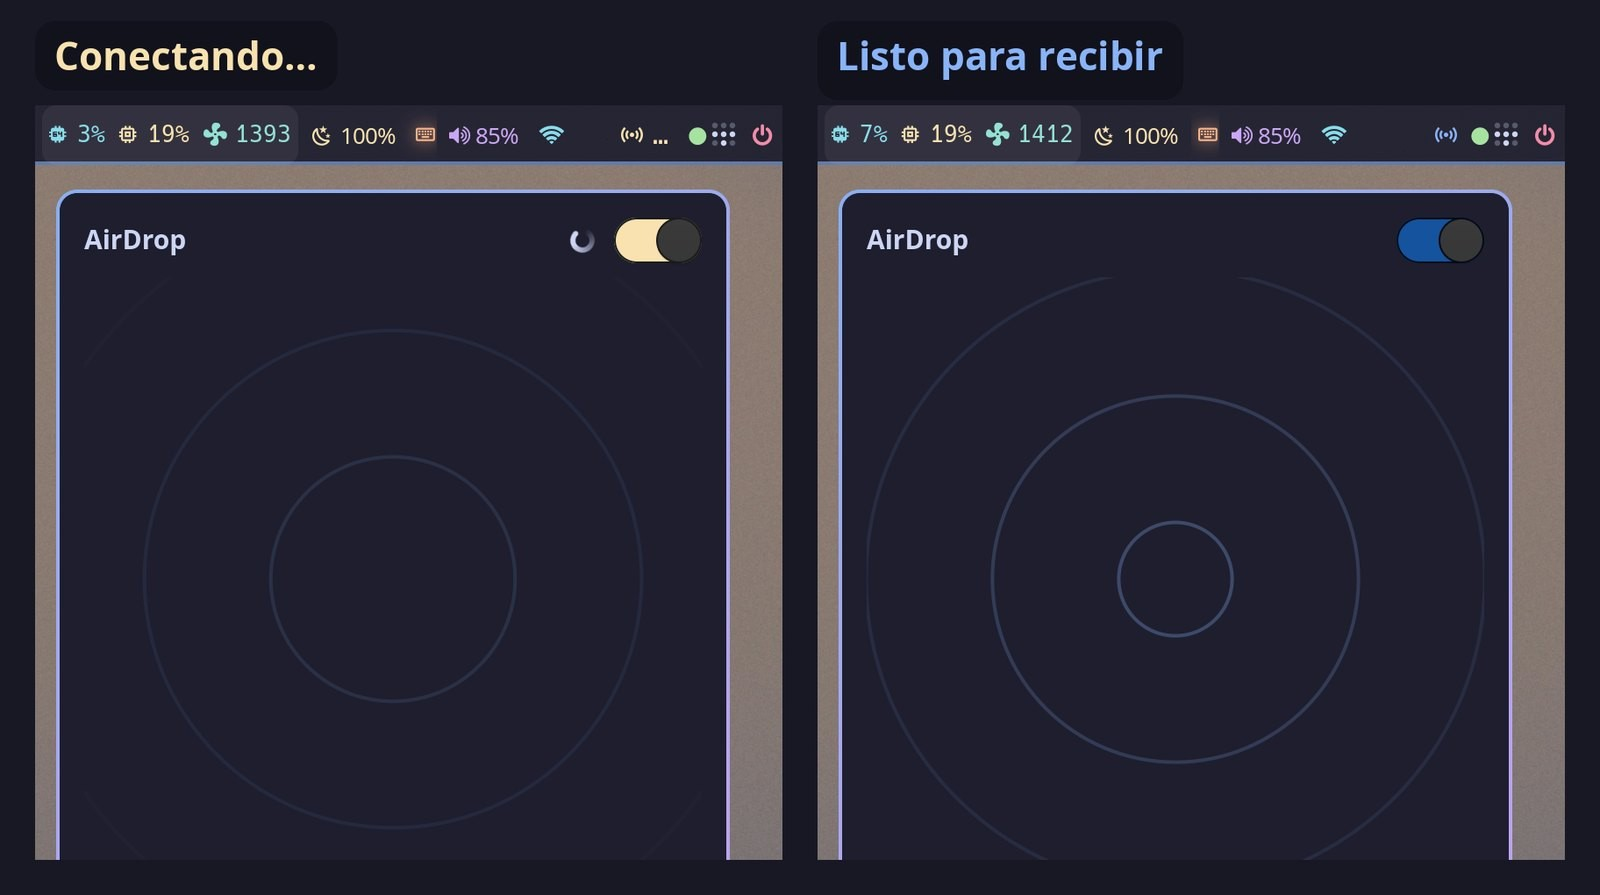
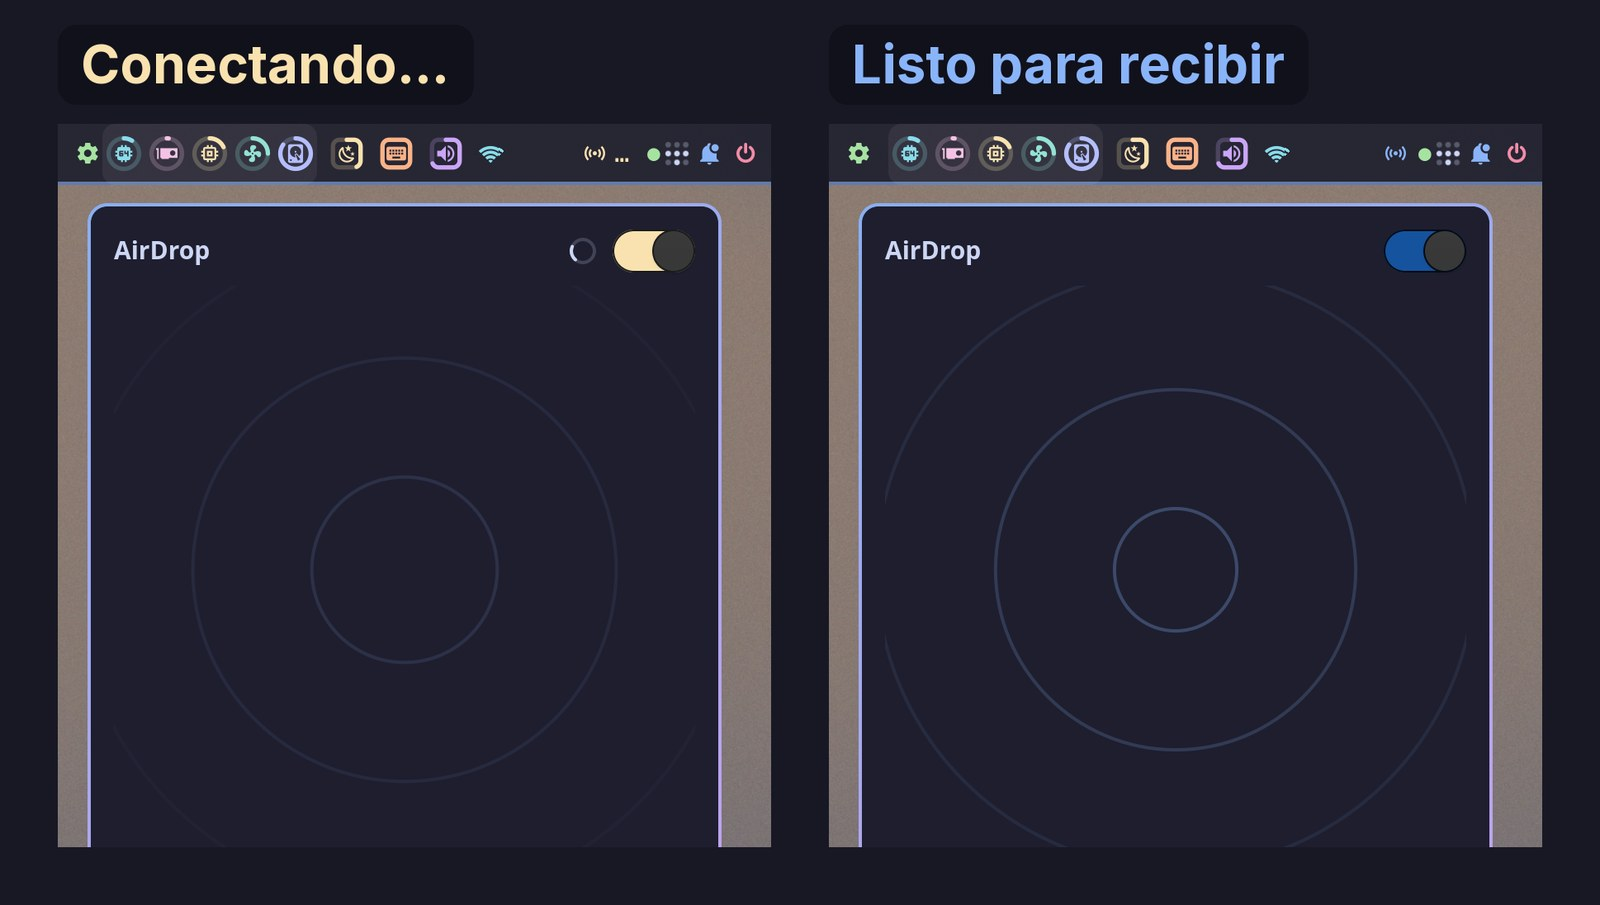
Images: the current bar, the real fastfetch and the notification centre
The desktop, bar and AirDrop pictures showed the bar of 24-29 Oct (plain
numbers instead of the rings, no bell). Retaken on the laptop: the
desktop runs fastfetch from a real zsh with Powerlevel10k (WayBian 0.11,
now read from the running kernel instead of a fixed string), the panels
in the bar picture and the new notification-centre picture are drawn
with demo files and test notifications, and the network name is
covered. Also: GRUB's default and the linux-aurora note no longer say
0.4.

Claude-Session: https://claude.ai/code/session_013Fj1pFpNwdgsUP2jErzBr1

diff --git a/forks/README.md b/forks/README.md
@@ -10,6 +10,6 @@ Each folder here is a git submodule: a link to one of our forks, pinned to the e
 | `omdrop-awdl` | [samucarre/omdrop-awdl](https://github.com/samucarre/omdrop-awdl/tree/discoverable-rapido) `discoverable-rapido` | AirDrop: a faster visible/invisible toggle for the bar's AirDrop button. | [1](../patches/omdrop-awdl) |
 | `libva-v4l2_request` | [samucarre/libva-v4l2_request](https://github.com/samucarre/libva-v4l2_request/tree/avd-fixes) `avd-fixes` | The VA‑API driver for the AVD (hardware video decoding); a mirror, no changes of ours. | — |
 | `xdg-desktop-portal-gtk4` | [samucarre/xdg-desktop-portal-gtk4](https://github.com/samucarre/xdg-desktop-portal-gtk4/tree/waybian) `waybian` | The GTK4 file dialogs: Quick Look with the space bar, like the Finder. | [5](../patches/xdg-desktop-portal-gtk4) |
-| `linux-aurora` | [samucarre/linux-aurora](https://github.com/samucarre/linux-aurora/tree/integration/aurora) `integration/aurora` | Aurora's kernel tree at the commit the running kernel (WayBian 0.4) is based on. Our four upstream patches are its branches, one pull request each to `omacom/linux-aurora` (open as of 29 Oct): [#258](https://github.com/omacom/linux-aurora/pull/258), [#259](https://github.com/omacom/linux-aurora/pull/259), [#260](https://github.com/omacom/linux-aurora/pull/260), [#261](https://github.com/omacom/linux-aurora/pull/261). Not downloaded by default (see below). | [4](../patches/linux-aurora) |
+| `linux-aurora` | [samucarre/linux-aurora](https://github.com/samucarre/linux-aurora/tree/integration/aurora) `integration/aurora` | Aurora's kernel tree at the commit WayBian 0.4 was based on (`30a6518`); the running kernel, 0.11, is built on Aurora's `integration/aurora` of 30 Oct. Our upstream patches are its branches, one pull request each to `omacom/linux-aurora`; their list and state (two of them, #259 and #287, already merged) are in [docs/forks.md](../docs/forks.md#kernel-patches-proposed-upstream). Not downloaded by default (see below). | [4](../patches/linux-aurora) |
 
 To get the presentation and every fork at once: `git clone --recurse-submodules https://github.com/samucarre/waybian`. `linux-aurora` is marked `update = none` in `.gitmodules`, so that skips a kernel tree of several gigabytes; fetch it on purpose with `git submodule update --init --checkout forks/linux-aurora`. The kernel that actually runs is built from a private fork (local patches, configurations and install scripts) that is not included.

diff --git a/docs/boot-chain.md b/docs/boot-chain.md
@@ -49,7 +49,7 @@ Debian ships `m1n1`, `u-boot-asahi` and `asahi-platform`, built for M1/M2. Their
 
 ## GRUB layout
 
-The entries live in `/etc/grub.d/40_custom`, each with its own `--id`, so `update-grub` (which runs whenever the grub packages are upgraded) rebuilds this menu instead of dropping it. `10_linux` and the other generators that add entries by themselves are disabled, and the default is chosen by id (`GRUB_DEFAULT="waybian-0.4"` in `/etc/default/grub.d/`), because indexes change when an entry is added.
+The entries live in `/etc/grub.d/40_custom`, each with its own `--id`, so `update-grub` (which runs whenever the grub packages are upgraded) rebuilds this menu instead of dropping it. `10_linux` and the other generators that add entries by themselves are disabled, and the default is chosen by id (`GRUB_DEFAULT="waybian-0.11"` in `/etc/default/grub.d/`), because indexes change when an entry is added.
 
 | Entry (id) | Kernel | Purpose |
 |---|---|---|

diff --git a/docs/desktop.md b/docs/desktop.md
@@ -31,6 +31,10 @@ Upstream Waybar is GTK3; the GTK4 port (upstream PR #5366) plus local fixes (a s
   <sub>The mini music player: cover, seek bar, search, queue, recent albums, playlists, shuffle.</sub>
 </p>
 <p align="center">
+  <img src="../images/notification-centre.jpg" alt="The bell in the bar and the notification centre panel" width="400"><br>
+  <sub>The notification centre: the bell is blue while the panel holds notifications (these are test ones, with the texts WayBian's own scripts send).</sub>
+</p>
+<p align="center">
   <img src="../images/keyboard-backlight.png" alt="Keyboard backlight panel" width="400"><br>
   <sub>The keyboard backlight: the M3 keyboard has no keys for it, so a bar widget opens this slider.</sub>
 </p>
